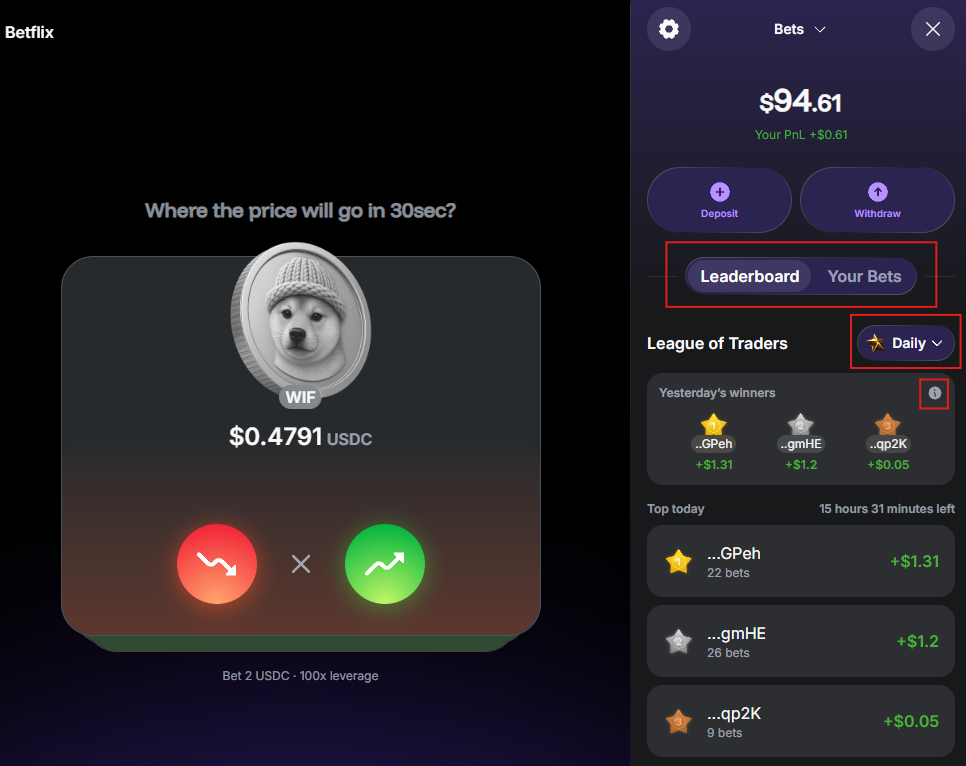
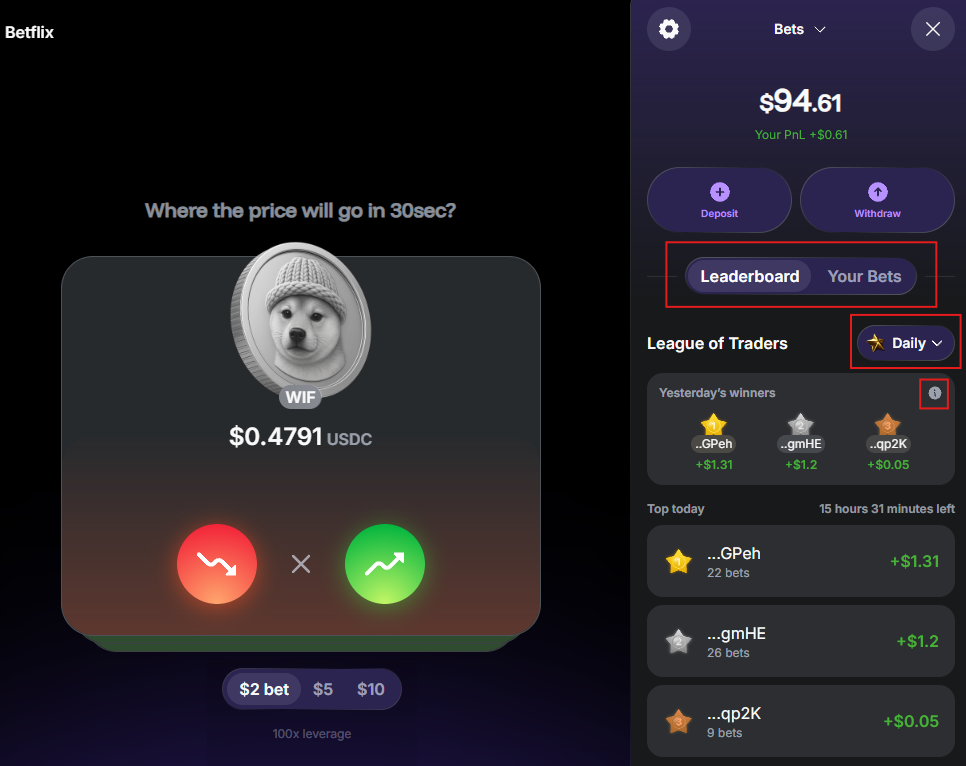
added betflix release notes + updated the betflix article

Changed region(s): [[0.2174, 0.8708, 0.4348, 0.9608]]

diff --git a/docs/help-center/docs/warden-app/play-betflix.md b/docs/help-center/docs/warden-app/play-betflix.md
@@ -26,7 +26,7 @@ The rules of Betflix are very simple:
 Gameplay details:
 
 - To play, you need **USDC on Solana**.
-- The bet is fixed: **$2** per round with fixed **100x leverage**.
+- The bet is fixed: **$2**/**5**/**10** per round with fixed **100x leverage**.
 - Supported coins: **DOGE**, **PEPE**, **BONK**, **WIF**, **SHIB**, **TRUMP**, and more.
 - All bets are subject to fees. Learn more: [Betflix fees](fees#betflix-fees).
 - Top traders [earn PUMPs](#earn-pumps).
@@ -40,6 +40,7 @@ To start playing, you need **USDC on Solana** (**$6** or more):
 3. In the left menu, open the **Betflix** tab.
 4. In the right panel, you'll see [Betflix wallet](#manage-betflix-wallet). Click **Deposit** and add USDC from your main wallet.
 5. Start playing:
+   - Choose your bet: **$2**/**5**/**10**
    - Swipe right → Go long
    - Swipe left → Go short
    - Swipe up → Don't trade

diff --git a/docs/help-center/docs/warden-app/whats-new.md b/docs/help-center/docs/warden-app/whats-new.md
@@ -13,13 +13,19 @@ Here you'll find the latest Warden release highlights, including new features, i
 #### New features
 
 - [Trading](trade): The live chart now displays active and historical trades, with active trades manageable from the chart.
+- [Betflix](play-betflix):
+  - Added new coins: **POWER**, **1000LUNC**, **LUNA2**, **FARTCOIN**, **WLD**, and **ZEC**.
+  - Added support for different fixed bets: **$2**/**5**/**10**.
 
 #### Improvements
 
 - [Trading](trade): Improved the limit order UI and general UI text.
+- [Betflix](play-betflix): Improved the UI.
+
 #### Fixes
 
 - [Trading](trade): Fixed issues with order creation and configuration, HIP-3 perps, and various UI components.
+- [Betflix](play-betflix): Fixed UI issues.
 
 ## November 28, 2025
 
